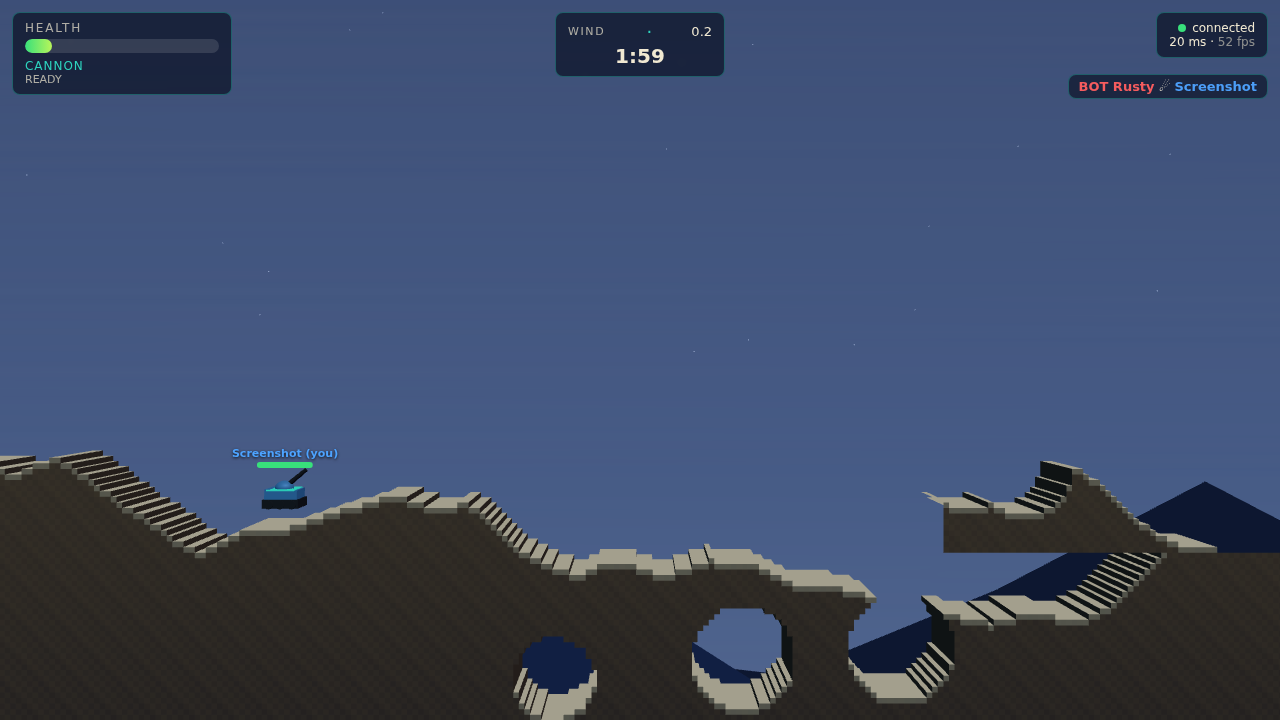
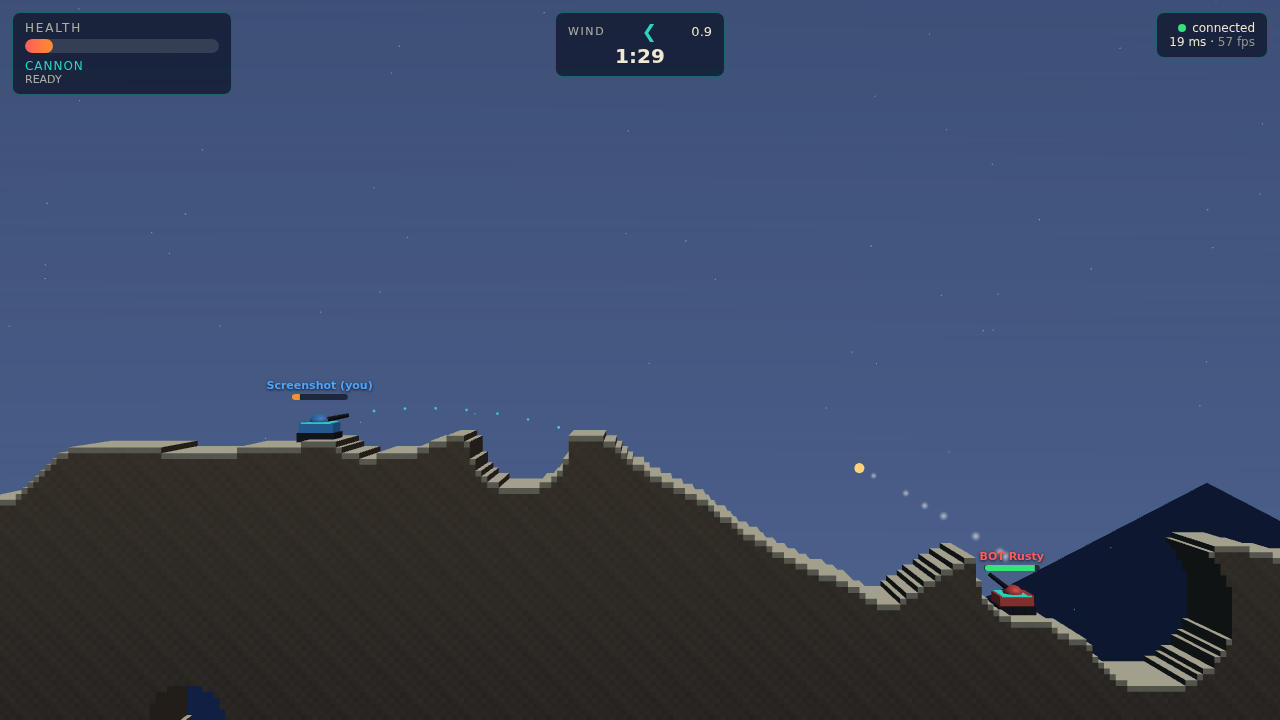
feat: frame both tanks in camera and add wind-aware aim preview
Loop 2: camera tracks the local tank and nearest enemy together with
dynamic zoom so both stay on screen (combat clarity 6->9). Add a
client-side trajectory preview arc using the server cannon constants,
stopping at terrain impact (aiming feel 6->8).

diff --git a/client/render/trajectory.ts b/client/render/trajectory.ts
@@ -1,0 +1,101 @@
+import * as THREE from "three";
+import { GRAVITY, VEHICLE } from "@shared/constants";
+import type { TerrainGrid } from "@shared/terrain";
+import { CANNON } from "@shared/weapons";
+
+const POINTS = 36;
+const SIM_DT = 0.06;
+const MUZZLE_OFFSET = VEHICLE.HALF_W + 1.0;
+
+/**
+ * Wind-aware aim preview: simulates the cannon arc client-side with the same
+ * constants the server uses and draws fading dots until the terrain hit.
+ */
+export class TrajectoryPreview {
+  readonly points: THREE.Points;
+  private positions: Float32Array;
+  private alphas: Float32Array;
+
+  constructor() {
+    this.positions = new Float32Array(POINTS * 3);
+    this.alphas = new Float32Array(POINTS);
+    const geometry = new THREE.BufferGeometry();
+    geometry.setAttribute("position", new THREE.BufferAttribute(this.positions, 3));
+    geometry.setAttribute("alpha", new THREE.BufferAttribute(this.alphas, 1));
+
+    const material = new THREE.ShaderMaterial({
+      transparent: true,
+      depthWrite: false,
+      blending: THREE.AdditiveBlending,
+      uniforms: { color: { value: new THREE.Color(0x2dd4bf) } },
+      vertexShader: `
+        attribute float alpha;
+        varying float vAlpha;
+        void main() {
+          vAlpha = alpha;
+          vec4 mv = modelViewMatrix * vec4(position, 1.0);
+          gl_PointSize = 160.0 * alpha / -mv.z + 2.0;
+          gl_Position = projectionMatrix * mv;
+        }
+      `,
+      fragmentShader: `
+        uniform vec3 color;
+        varying float vAlpha;
+        void main() {
+          vec2 uv = gl_PointCoord - 0.5;
+          float d = length(uv);
+          if (d > 0.5) discard;
+          gl_FragColor = vec4(color, vAlpha * (1.0 - d * 1.6));
+        }
+      `,
+    });
+
+    this.points = new THREE.Points(geometry, material);
+    this.points.frustumCulled = false;
+    this.points.visible = false;
+  }
+
+  update(
+    visible: boolean,
+    tankX: number,
+    tankY: number,
+    aimAngle: number,
+    charge: number,
+    wind: number,
+    terrain: TerrainGrid,
+  ): void {
+    this.points.visible = visible;
+    if (!visible) return;
+
+    const speed = CANNON.minSpeed + (CANNON.maxSpeed - CANNON.minSpeed) * charge;
+    const cos = Math.cos(aimAngle);
+    const sin = Math.sin(aimAngle);
+    let x = tankX + cos * MUZZLE_OFFSET;
+    let y = tankY + 0.6 + sin * MUZZLE_OFFSET;
+    let vx = cos * speed;
+    let vy = sin * speed;
+
+    let hit = false;
+    for (let i = 0; i < POINTS; i++) {
+      if (!hit) {
+        vx += wind * CANNON.windInfluence * SIM_DT;
+        vy += GRAVITY * SIM_DT;
+        x += vx * SIM_DT;
+        y += vy * SIM_DT;
+        if (terrain.solidAtWorld(x, y) || y < -10) hit = true;
+      }
+      this.positions[i * 3] = x;
+      this.positions[i * 3 + 1] = y;
+      this.positions[i * 3 + 2] = 1.2;
+      this.alphas[i] = hit && i > 0 ? 0 : Math.max(0.12, 0.85 - (i / POINTS) * 0.7);
+      if (hit && this.alphas[i] === 0 && i > 0) {
+        // Keep the impact dot itself bright.
+        this.alphas[i - 1] = Math.max(this.alphas[i - 1], 0.9);
+      }
+    }
+
+    const geo = this.points.geometry;
+    (geo.getAttribute("position") as THREE.BufferAttribute).needsUpdate = true;
+    (geo.getAttribute("alpha") as THREE.BufferAttribute).needsUpdate = true;
+  }
+}

diff --git a/client/render/camera.ts b/client/render/camera.ts
@@ -2,18 +2,21 @@ import * as THREE from "three";
 import { WORLD_HEIGHT, WORLD_WIDTH } from "@shared/constants";
 import { clamp } from "@shared/math";
 
-const CAMERA_Z = 92;
+const CAMERA_Z_MIN = 70;
+const CAMERA_Z_MAX = 135;
+const FRAME_MARGIN = 24; // world units kept around both tanks
 
 export class FollowCamera {
   readonly camera: THREE.PerspectiveCamera;
   private targetX = WORLD_WIDTH / 2;
   private targetY = WORLD_HEIGHT * 0.45;
+  private targetZ = CAMERA_Z_MIN + 20;
   private shakeTime = 0;
   private shakeStrength = 0;
 
   constructor(aspect: number) {
     this.camera = new THREE.PerspectiveCamera(40, aspect, 0.1, 600);
-    this.camera.position.set(this.targetX, this.targetY, CAMERA_Z);
+    this.camera.position.set(this.targetX, this.targetY, this.targetZ);
   }
 
   resize(aspect: number): void {
@@ -26,12 +29,34 @@ export class FollowCamera {
     this.shakeTime = 0.45;
   }
 
-  /** Follow a focus point (local tank, with slight aim lead), clamped to arena. */
-  update(focusX: number, focusY: number, aimLeadX: number, dt: number): void {
-    this.targetX = focusX + aimLeadX * 6;
-    this.targetY = focusY + 8;
+  /**
+   * Follow the local tank while keeping the nearest enemy in frame:
+   * the camera aims at a weighted midpoint and zooms out with distance.
+   */
+  update(
+    focusX: number,
+    focusY: number,
+    aimLeadX: number,
+    dt: number,
+    enemy?: { x: number; y: number } | null,
+  ): void {
+    if (enemy) {
+      // Weighted midpoint (bias toward the local tank).
+      this.targetX = focusX * 0.62 + enemy.x * 0.38 + aimLeadX * 4;
+      this.targetY = Math.max(focusY, (focusY + enemy.y) / 2) + 6;
+      const spanX = Math.abs(enemy.x - focusX) / 2 + FRAME_MARGIN;
+      const spanY = Math.abs(enemy.y - focusY) / 2 + FRAME_MARGIN * 0.6;
+      const tanHalf = Math.tan((this.camera.fov * Math.PI) / 360);
+      const zForWidth = spanX / (tanHalf * this.camera.aspect);
+      const zForHeight = spanY / tanHalf;
+      this.targetZ = clamp(Math.max(zForWidth, zForHeight), CAMERA_Z_MIN, CAMERA_Z_MAX);
+    } else {
+      this.targetX = focusX + aimLeadX * 6;
+      this.targetY = focusY + 8;
+      this.targetZ = CAMERA_Z_MIN + 20;
+    }
 
-    const halfH = Math.tan((this.camera.fov * Math.PI) / 360) * CAMERA_Z;
+    const halfH = Math.tan((this.camera.fov * Math.PI) / 360) * this.targetZ;
     const halfW = halfH * this.camera.aspect;
     const cx = clamp(this.targetX, Math.min(halfW, WORLD_WIDTH / 2), Math.max(WORLD_WIDTH - halfW, WORLD_WIDTH / 2));
     const cy = clamp(this.targetY, Math.min(halfH * 0.8, WORLD_HEIGHT / 2), WORLD_HEIGHT);
@@ -39,6 +64,7 @@ export class FollowCamera {
     const smooth = 1 - Math.exp(-5 * dt);
     this.camera.position.x += (cx - this.camera.position.x) * smooth;
     this.camera.position.y += (cy - this.camera.position.y) * smooth;
+    this.camera.position.z += (this.targetZ - this.camera.position.z) * (1 - Math.exp(-3 * dt));
 
     if (this.shakeTime > 0) {
       this.shakeTime -= dt;

diff --git a/client/main.ts b/client/main.ts
@@ -7,6 +7,7 @@ import { FollowCamera } from "./render/camera";
 import { Effects } from "./render/effects";
 import { createScene, updateWindParticles } from "./render/scene";
 import { TerrainRenderer } from "./render/terrainRenderer";
+import { TrajectoryPreview } from "./render/trajectory";
 import { VehicleRenderer } from "./render/vehicleRenderer";
 import { Hud } from "./ui/hud";
 
@@ -23,6 +24,8 @@ async function boot() {
   scene.add(effects.group);
   const vehicles = new VehicleRenderer();
   scene.add(vehicles.group);
+  const trajectory = new TrajectoryPreview();
+  scene.add(trajectory.points);
 
   window.addEventListener("resize", () => {
     renderer.setSize(window.innerWidth, window.innerHeight);
@@ -115,9 +118,30 @@ async function boot() {
     vehicles.sync(players);
     if (state) updateWindParticles(windParticles, state.wind, dt);
 
-    // Camera: follow local tank; otherwise frame the action.
+    // Aim preview: local angle for zero-latency feedback, server constants for truth.
+    trajectory.update(
+      Boolean(local?.alive && state?.phase === "playing"),
+      local?.x ?? 0,
+      local?.y ?? 0,
+      input.aimAngle,
+      input.charging ? Math.max(predictedCharge, 0.05) : 0.3,
+      state?.wind ?? 0,
+      net.terrain,
+    );
+
+    // Camera: keep the local tank and the nearest enemy framed together.
     if (local?.alive) {
-      followCam.update(local.x, local.y, Math.cos(local.aimAngle), dt);
+      let enemy: { x: number; y: number } | null = null;
+      let bestD = Infinity;
+      for (const p of players.values()) {
+        if (!p.alive || p.team === local.team) continue;
+        const d = Math.abs(p.x - local.x);
+        if (d < bestD) {
+          bestD = d;
+          enemy = p;
+        }
+      }
+      followCam.update(local.x, local.y, Math.cos(local.aimAngle), dt, enemy);
     } else if (players.size > 0) {
       let cx = 0;
       let cy = 0;

diff --git a/PROGRESS.md b/PROGRESS.md
@@ -20,3 +20,16 @@ Verification gates: `npm run typecheck` · `npm test` · `npm run match:sim` · 
   - visual polish 7 · UI readability 8 · bot usefulness 8 (bots fight, dodge, win rounds)
   - server stability 9 (3 matches, zero crashes/NaN) · performance 8 · latency tolerance 7 (not yet tested with artificial delay)
 - Next target: combat clarity + aiming feel — frame both tanks in the camera and add a wind-aware trajectory preview arc.
+
+## Iteration 2 — 2026-06-13
+
+- Changed: lowest-scoring categories from loop 1 (combat clarity 6, aiming feel 6). Camera now frames the local tank together with the nearest enemy — it aims at a weighted midpoint and dynamically zooms out (z 70→135) so both stay on screen. Added a wind-aware trajectory preview (`client/render/trajectory.ts`): a GPU-point arc simulated client-side with the exact server cannon constants (gravity, wind influence, muzzle offset), stopping at the terrain hit, shown while aiming/charging.
+- Gates: typecheck PASS | tests PASS (24/24) | bot match PASS | screenshots OK
+- Measurements:
+  - match:sim unchanged — 3 matches, tick avg 0.007 ms / max 1.122 ms (server logic untouched)
+  - screenshot — 54 fps avg headless; `screenshots/match-t10s.png` now shows BOTH tanks framed, the teal aim arc, and a shell mid-flight with trail
+- Rubric deltas:
+  - combat clarity 6 → 9 (both tanks always framed; verified in t10s screenshot)
+  - aiming and firing feel 6 → 8 (wind-aware preview arc gives the shot a readable destination)
+  - visual polish 7 → 8 (dynamic framing + arc read as intentional presentation)
+- Next target: latency tolerance (7) — still untested under artificial delay; add a delayed-input path or measure interpolation smoothness at +100 ms.